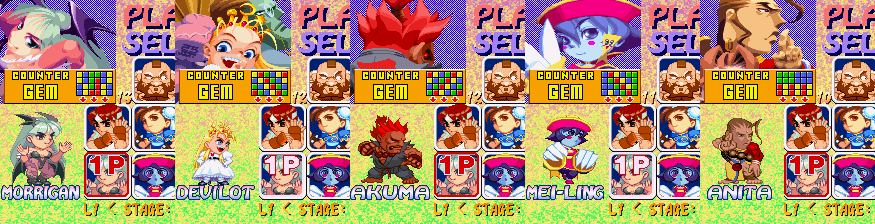
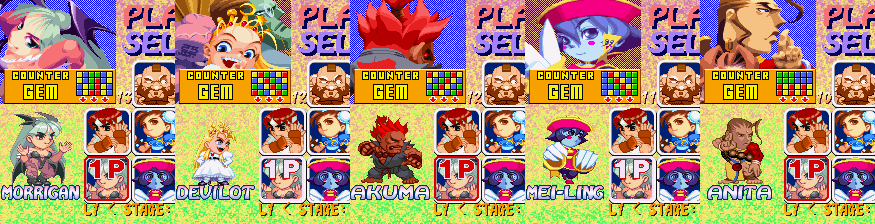
Memory card, colours, layout
- Dan's RESULT counters are saved on the card too (vanilla zeroed them
  before saving unless Dan was unlocked); save, reboot and load tested
  in the emulator with a memory card
- Zangief's colour sets follow the same buttons as everyone: standard
  red with Circle / Triangle, blue with Cross / Square (also the select
  chibi and the HARD finale)
- Zangief vs Dan is no longer treated as a mirror match for colours
- Grid 4 pixels lower for room under the logo (row 1 is off screen)
- README, research notes, screenshots, xprime-patch.json

Claude-Session: https://claude.ai/code/session_01Fft1KzyYNeuf86PpSTTuV4

diff --git a/tools/zangief.py b/tools/zangief.py
@@ -731,8 +731,8 @@ def build(pac, mdl, first, template, exe, sheet=None, selpac=None, quote_files=N
     # palettes: 4 sets x (Zangief, Dan's 3 effect palettes)
     pals = bytearray()
     dan = first[DAN_PALS:DAN_PALS + 0x200]
-    for s in range(4):              # set 1 is the default (confirm with X)
-        mode = {0: 1, 1: 0, 2: 2, 3: 3}[s]
+    for s in range(4):              # set 0 = his own colours (Circle / Triangle, like
+        mode = s                    # everyone's standard), 1 blue (Cross / Square)
         c = recolour(cols, mode) if mode else cols
         pals += struct.pack('<16H', 0, *[bgr555(x) for x in c])
         pals += dan[s * 0x80 + 0x20:s * 0x80 + 0x80]

diff --git a/docs/NEW-CHARACTER-RESEARCH.md b/docs/NEW-CHARACTER-RESEARCH.md
@@ -190,7 +190,7 @@ So Zangief can keep Dan's state machine and attack code, with his own list of sc
 **Build.** `XP_PF=<Pocket Fighter image> ./build.sh …` runs `tools/zangief.py`, which writes `PL0B_OBJ.EMI` (new file id 0x56) from `/PLAYER/ZANGIEF.PAC` and `/MDL/PL09A.MDL` on the user's disc.
 - Frames: Pocket Fighter records composited with their costume overlay, kept facing left (the game mirrors P1), scaled to 0.65 around the feet, quantised to one 15-colour palette. 42 frames, 0xEAA0 bytes of graphics. The Piledriver frames get a vertical lift.
 - Record entry, loaded at the player's bank (P1 `0x800E7600`, P2 `0x800EBB00`): 44-byte records, then at +0x2C00 the palette block (4 colour sets × 4 palettes: Zangief + Dan's 3 effect palettes), then at +0x2E00 the 51 state offsets and the 16-byte scripts.
-- Colour sets follow the confirm button like the others: set 1 (X) is the original red, then blue, green and dark. A Zangief facing Dan or another Zangief in P2 gets the alternate set, as for any same-slot match-up.
+- Colour sets follow the confirm button like the others: set 0 (Circle / Triangle, the standard colours for every character) is the original red, set 1 (Cross / Square) blue, then green and dark. (Before experimental-arcade set 1 was the red one, so he was the only character whose standard button gave the alternate colours.) A Zangief facing another Zangief gets the alternate set, as for any mirror match; facing Dan (the same slot) he no longer does (xp_samechar).
 
 **Hooks** (`src/zangief.asm`, code at `0x80151AC0`, an unreferenced 440-byte function that never runs; installed only when the build has the file):
 
@@ -296,7 +296,7 @@ Everything below is only active in Versus with Zangief's bit set, and only in bu
   - `xp_zselst` gives him his own state 23/24 scripts from his file (23 = stance, 24 = arms up).
   - `xp_zselbank` (at `0x8013648C`) gives him his banks.
   - `xp_zchibipal` (at `0x8010789C`) gives him his palette, colour set as chosen.
-  - While the cursor is on him, his own colours are shown (set 1). The cursor-move call is told apart by its return address, `xp_mv_ret`.
+  - While the cursor is on him, his own colours are shown (set 0). The cursor-move call is told apart by its return address, `xp_mv_ret`.
 
 ### Names
 
@@ -582,7 +582,7 @@ Seen in the emulator with a forced win in every match. The RAM pokes are below; 
 - **Zangief as the 13th.** He is part of the cast now, so he appears whoever the player is.
   - **His file.** `xp_zhbusy` replaces the wait at `0x80144028`. After `HARD_END.EMI`, it loads his own `PL0B_OBJ.EMI` into what the ENDING file left in RAM, which nothing uses then (graphics `0x80070000`, records `0x80082000`).
   - **Spawning and init.** The spawner makes 13 objects. `xp_zhinit` (at `0x8011ED40`) gives index 12:
-    - his idle script and his own colours (palette set 1, into bank 3 slot 12);
+    - his idle script and his own colours (palette set 0, into bank 3 slot 12);
     - the back row's middle gap, under the logo (x 184);
     - priority 11 (behind everyone, as the back row's big man);
     - a delay of 260 frames: last, but his 42-frame fade-in must end before the 336-frame landing timer, or he never lands and stays half faded.
@@ -603,6 +603,9 @@ and the Versus RESULT table lists them with separate counters. Code:
 
 - **Counters.** 4 arrays × 11 words at 0x801D2678: wins side 0, wins side 1 (+0x2C), losses side 0 (+0x58), losses side 1 (+0x84); index = character. Zangief has his own 4 words (XP_ZST), updated instead of Dan's when his bit is set (xp_zinc, replacing the update at 0x801382B8).
 - **Lines.** A 12th line, ZANGIEF; DAN and ZANGIEF are always shown, AKUMA and DEVILOT when unlocked (12-entry copies of the name, column and line tables). Totals go from row 19 to 20, the menu from rows 22/24/26 to 23/25/27.
+- **Card block.** The save is one 0x400-byte block built at 0x80010000 (card frame 0x2000 in a fresh card: 0x200 of header and icon, then the game data). The counters are at +0x268 (44 words), copied back by 0x80104054, which also runs at boot (the game loads the card by itself).
+- **Dan on the card.** Vanilla zeroes a secret character's counters before saving when it was only reached by its code this session (Dan: 0x80103F04, flag 0x8016CAFA clear, "used" 0x801BF120 set). Dan is listed like everyone now, so that step is skipped (0x80103F10 branches over it).
+- **Tested in the emulator with a memory card** (pcsx_rearmed option `pcsx_rearmed_memcard1 = libretro`; lr.py has no card unless it is passed). Zangief beats Dan, then BACKUP → SAVE DATA. On a fresh boot with that card, ZANGIEF 1 / DAN 1 come back; one more match gives 2 / 2.
 - **Save.** His counters go in the unused tail of the save block (+0x380: 'ZGST', 4 words, sum), written by xp_rssave and read back by xp_rsload; an older save gives zero. CLEAR RESULT clears them too.
 
 ### Icon grid
@@ -618,8 +621,9 @@ and the Versus RESULT table lists them with separate counters. Code:
 - **Positions.** 0–3 top row, 4–7 bottom row; 8 = Zangief, 9 = Dan. The cursor/badge position table 0x8016A974 is relocated with two more entries (read at 0x80116150, 0x8011618C, 0x801161B8). Position → character goes through a 10-entry copy of CURSOR_CHARS; position 8 also sets his bit.
 - **Moves** (xp_move): Up on Chun-Li (1) / Sakura (2) → 8 / 9, only in Versus/Arcade; on 8/9, Down → 1/2, Left/Right swap.
 - **Down ring.** In Versus/Arcade it becomes Devilot → Akuma → Mei-Ling → Anita → cell; Street Puzzle keeps Dan after Akuma.
+- **Mirror colours.** Confirming the character the other player already has gives the second one the other colour set (0x8013B058). Dan and Zangief are both character 10, so xp_samechar (0x8013B05C) makes them count as different unless both are Zangief or both Dan.
 - **Big portrait.** The portrait object (0x80114510) redraws only when the character differs from the one it shows (+0x58). Dan and Zangief are both character 10, so +0x58 now holds a key, character | 0x10 for Zangief.
-- **Logo and timers.** The logo's tile script (0x8016FACC) goes from row 5 to row 2. Arcade's STAGE n / FINAL STAGE scripts and digits move up by the same 3 rows, and their erase (0x8013CB38) covers rows 2–11. The select timers (0x8013C428 / 0x8013C4B4) move one column outwards.
+- **Logo and timers.** The logo's tile script (0x8016FACC) goes from row 5 to row 2; row 1 would be cut by the top of the visible area, so for a little more room the whole grid (icons, cursors) is 4 pixels lower (GRID_DY). Arcade's STAGE n / FINAL STAGE scripts and digits move up by the same 3 rows, and their erase (0x8013CB38) covers rows 2–11. The select timers (0x8013C428 / 0x8013C4B4) move one column outwards.
 
 ### Code space
 

diff --git a/README.md b/README.md
@@ -79,6 +79,10 @@ He sends and receives 90 %, and drops the "Siberian Bear" pattern (3×2 blocks).
 
 ![Zangief (P1) and Dan (P2) on their icons](docs/screenshots/select_icons.png)
 
+**Versus RESULT.** DAN and ZANGIEF are always listed, with separate counters. They are saved on the memory card with the others and come back at the next boot: here, a second Zangief vs Dan match after saving and restarting.
+
+![RESULT with Zangief's and Dan's own counters](docs/screenshots/result_zangief.png)
+
 **Secret characters without codes.**
 - **The ring.** On the bottom row, Down cycles the cell through Devilot → Akuma → Mei-Ling → Anita and back. Up walks the same ring backwards. (In Street Puzzle, which has no Zangief/Dan row, Dan stays in the ring after Akuma.)
 - **Labels.** Mei-Ling and Anita get their own name labels, which the original select screen never had.
@@ -115,7 +119,7 @@ Done:
 - **Damage formula.** It reproduces the arcade X' patch exactly. It was fuzz-tested in an emulator against a Python model of the arcade code.
 - **Diamond.** It always applies its penalty, so the diamond trick is gone.
 - **Character select.** Zangief and Dan have their own icons on a new row. Pressing Down on the bottom row cycles through Devilot, Akuma, Mei-Ling and Anita. The select screen now has name labels for Mei-Ling, Anita and Zangief.
-- **Versus RESULT.** DAN and ZANGIEF are always listed, each with his own counters (saved on the memory card with the others); AKUMA and DEVILOT appear once used, and the totals and menu moved down to make room.
+- **Versus RESULT.** DAN and ZANGIEF are always listed, each with his own counters, saved on the memory card with the others (vanilla dropped Dan's from the save unless he was unlocked); AKUMA and DEVILOT appear once used, and the totals and menu moved down to make room.
 - **Zangief.** He is complete in Versus and Arcade, ending included: see [Zangief](#zangief).
 - **Markers.** `X"` appears between the win counters during matches, and `X" BALANCE PATCH BY ZANAC` appears on the title screen.
 - **Codes.** The old secret-character codes are disabled; cycling replaces them.
@@ -198,7 +202,7 @@ For the others, move to the bottom row and keep pressing **Down**.
 - **Down** cycles the character on that cell through Devilot, Akuma, Mei-Ling and Anita, then back to the cell's own character.
 - **Up**, while a secret character is shown, goes back one step in the same ring (Anita → Mei-Ling → Akuma → Devilot → the cell's character). On the cell's own character, Up moves to the top row as usual.
 - **Left or Right** return to the normal grid.
-- **Colours.** As in vanilla, the button used to confirm picks them: Circle or Triangle give the standard colours, Cross or Square the alternate ones.
+- **Colours.** As in vanilla, the button used to confirm picks them: Circle or Triangle give the standard colours, Cross or Square the alternate ones. Zangief follows the same rule (red with Circle, blue with Cross); Zangief vs Dan is not a mirror match, so both keep the colours they chose.
 
 Mei-Ling and Anita keep Hsien-Ko's and Donovan's portrait on the select
 screen, with their own name label; they appear as themselves in the match.
